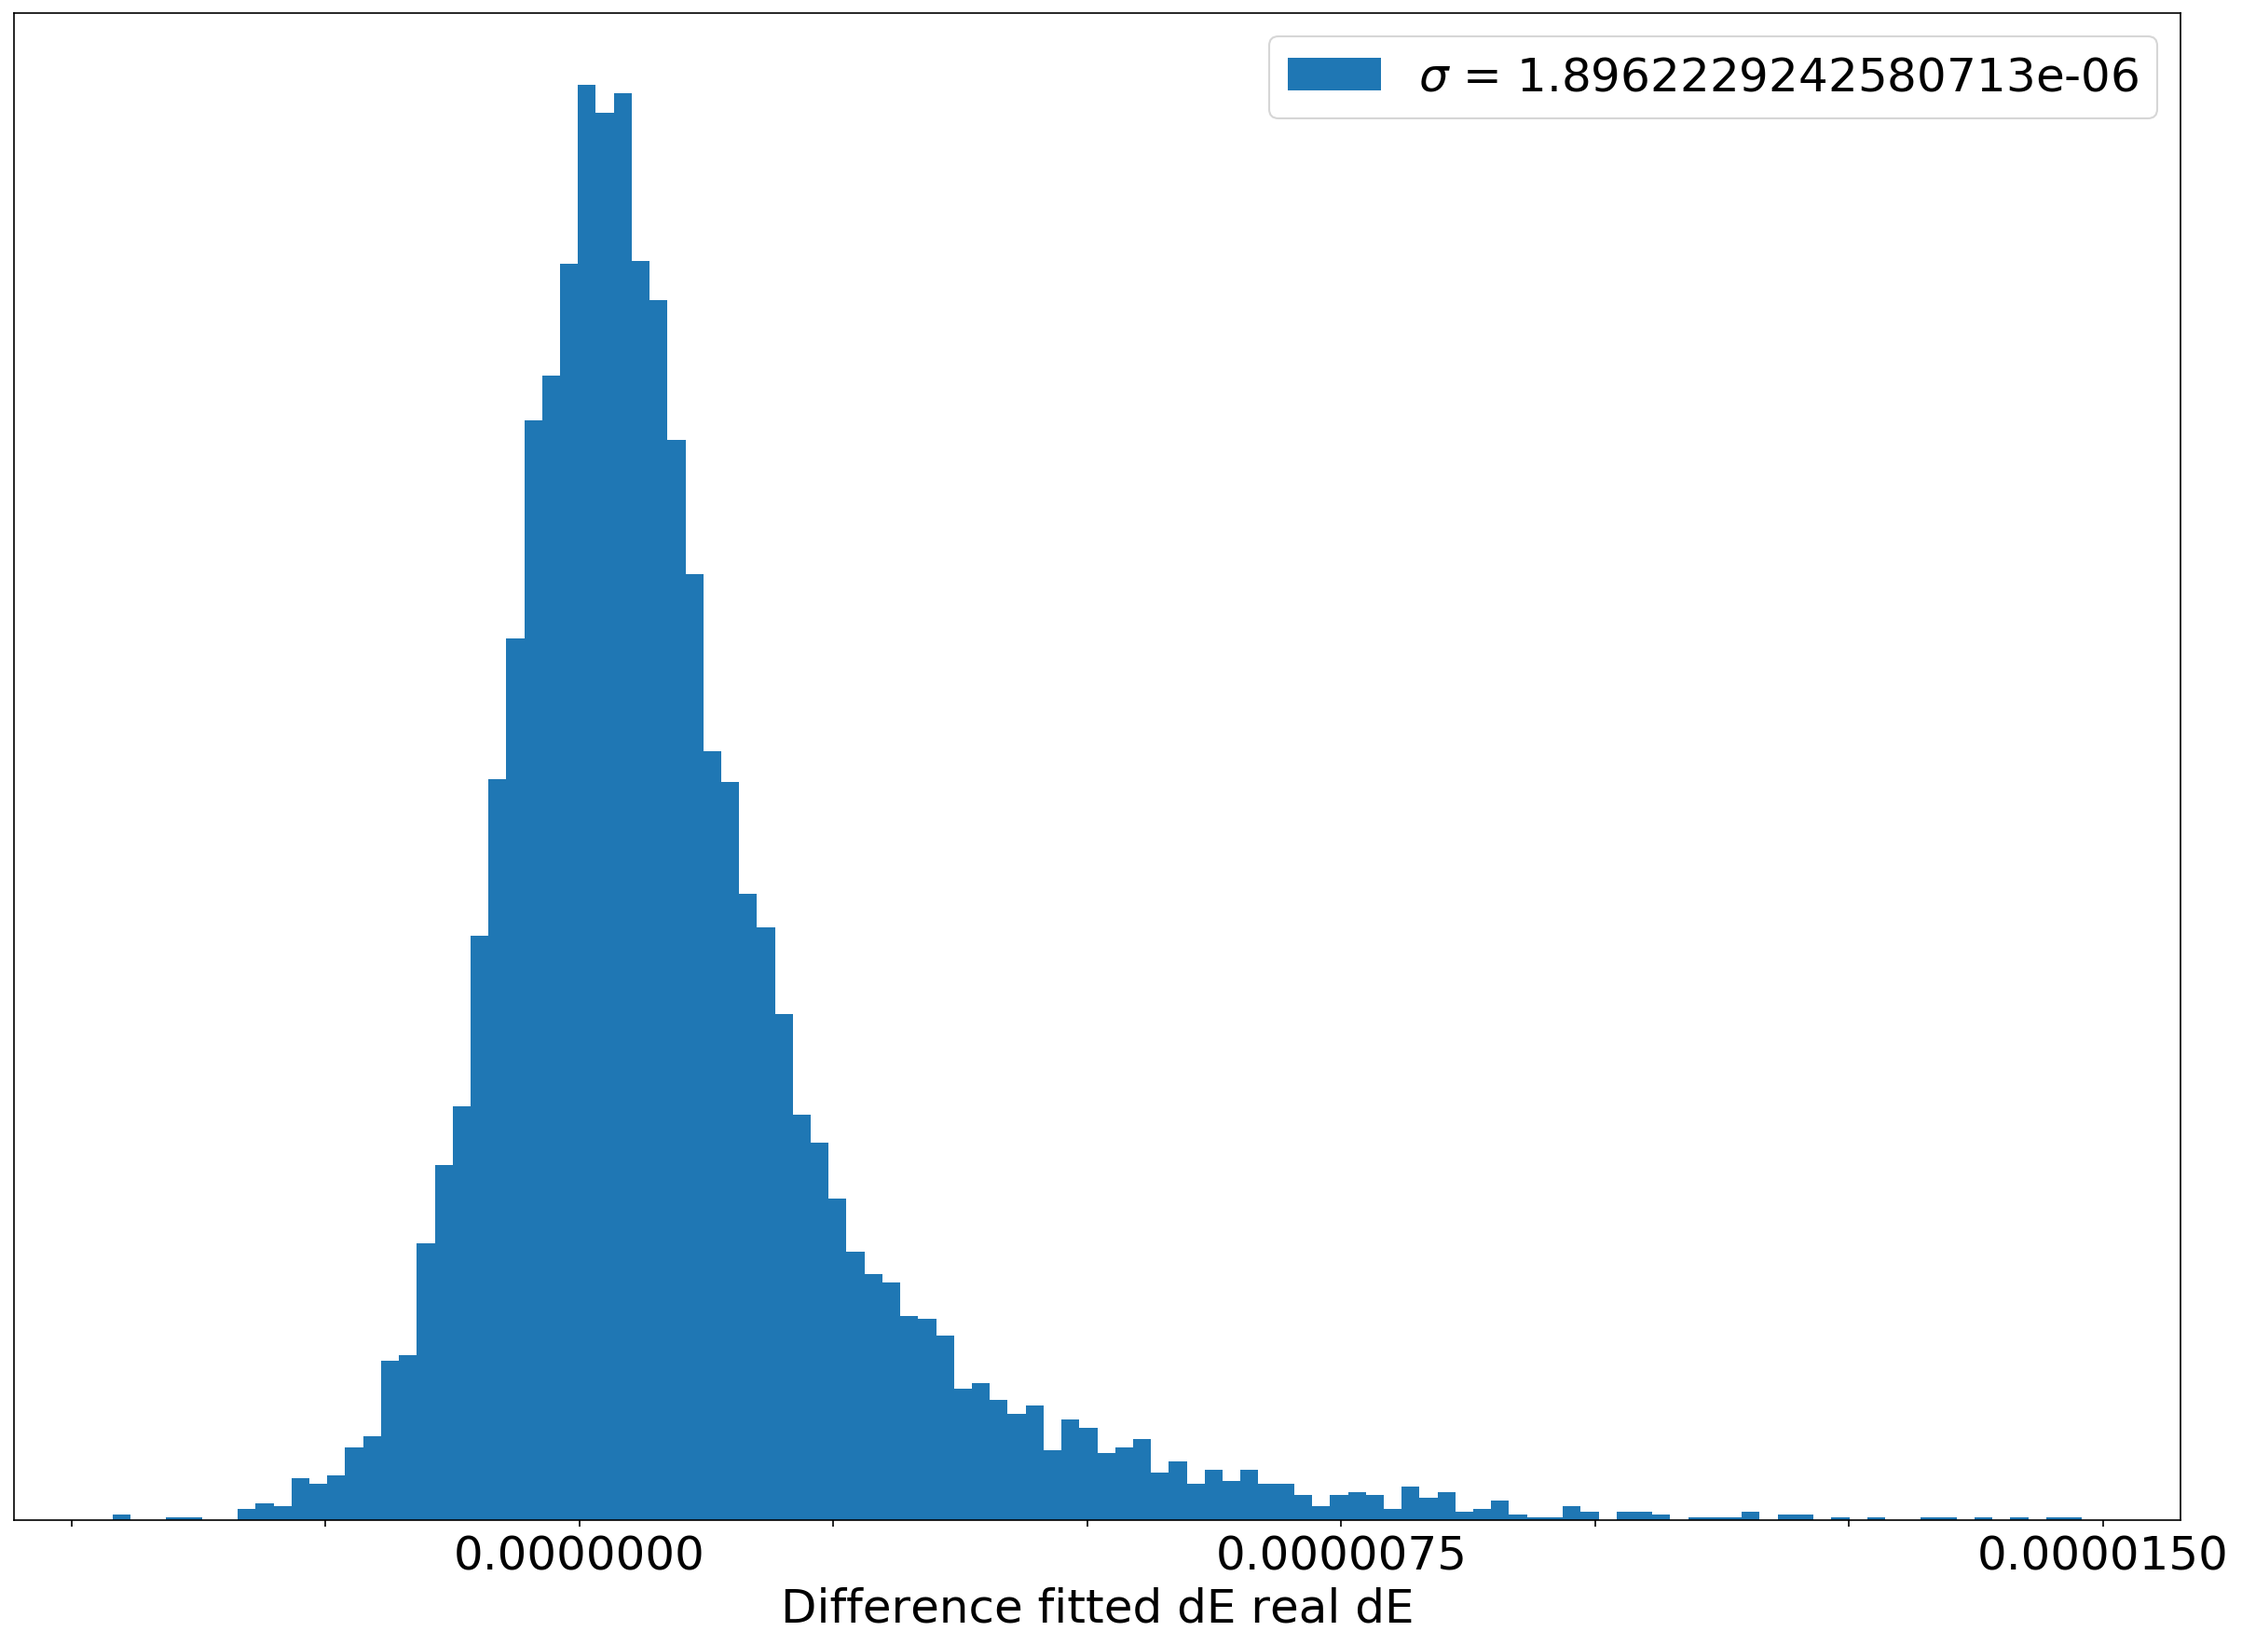
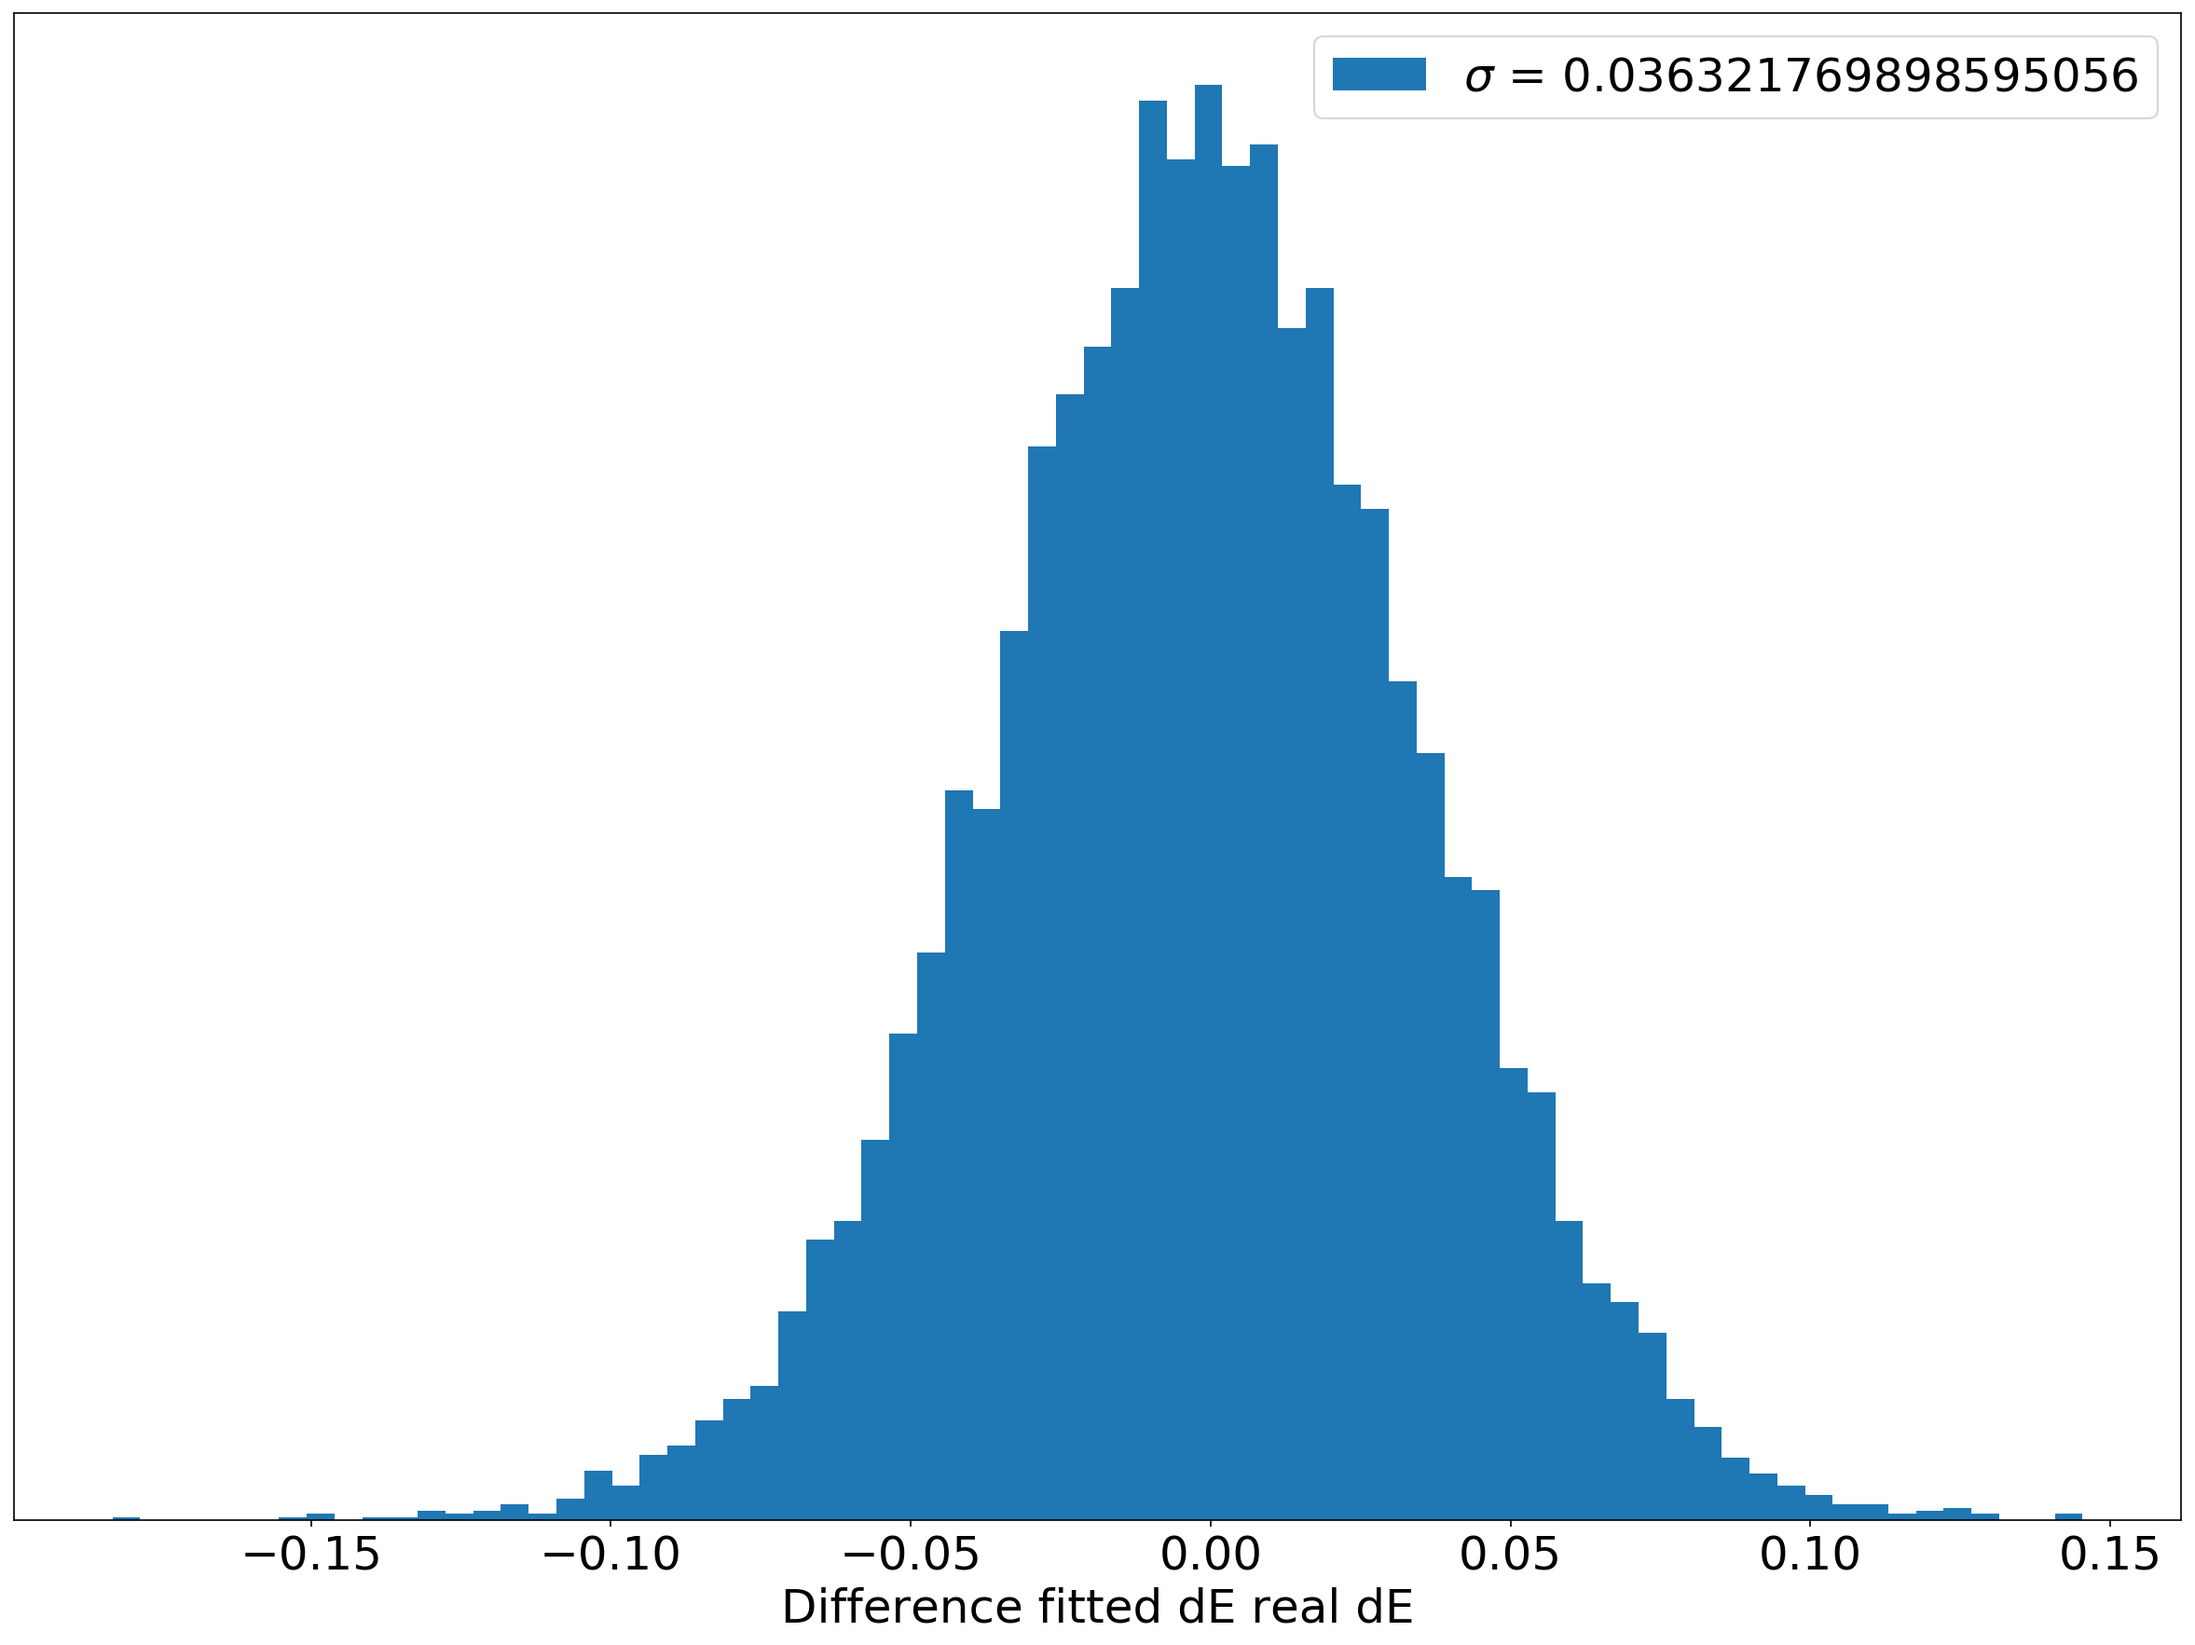
Update

Changed region(s): [[0.093, 0.0312, 1.0, 0.9972]]

diff --git a/mock_variation.py b/mock_variation.py
@@ -8,6 +8,7 @@ import numpy as np
 import matplotlib.pyplot as plt
 import h5py
 import json
+import sys
 import silence_tensorflow.auto
 import tensorflow as tf
 from scipy.optimize import minimize
@@ -55,8 +56,8 @@ def guess_dR(BR, B, B_inv):
     y = x[:] - b[None]
 
     # norm it to 1 and transform it to mag/color space
-    y /= np.dot(y,y)**0.5
     BdR = np.einsum('ij,j->i',B,y)
+    BdR /= np.dot(BdR,BdR)**0.5
 
     return BdR
 
@@ -142,8 +143,9 @@ def lagrangian(R2, l1, l2, rho, B_inv, R1, EEC, EmC, ECm, ECR, ERC, RCm, mCR, RC
     return lag
 
 
-def calculate_R(R, E, dR, dE, C, m, mC, Cm, l1, l2, rho, B_inv):
+def calculate_R(R, E, dR, dE, C, m, l1, l2, rho, B_inv):
     # calculate terms of chi_sq if R (reddening or variation) is the variables
+    mCm, mC, Cm = calculate_pre_loop(m,C)
     RC = dE[:,None]*np.einsum('i,nij->nj',dR,C)
     CR = dE[:,None]*np.einsum('nij,j->ni',C,dR)
     RCm = dE*np.einsum('i,ni->n',dR,Cm)
@@ -162,6 +164,11 @@ def calculate_R(R, E, dR, dE, C, m, mC, Cm, l1, l2, rho, B_inv):
 
     partial = (EEC, EmC, ECm, ECR, ERC, RCm, mCR, RCR)
     arg = (l1, l2, rho, B_inv, dR) + partial
+
+    co1 = lagrangian(R, 0, 0, [0,0], B_inv, dR, *partial) + mCm
+    co2 = np.sum(chi_sq(E, R, dE, dR, C, m))
+    if not np.allclose(co1,co2):
+        print("Values differ by ",co1-co2)
 
     # minimizing the augmented lagranian with respect to R and append the solution
     with np.errstate(divide='ignore', invalid='ignore'):
@@ -289,7 +296,7 @@ def prepare_data(d, nn):
 
 
 def probe_chi_E(E, R, dm, C, dR, dE, i, label):
-    probe = np.linspace(0.8,1.2,100)*E
+    probe = np.linspace(0.7,1.3,100)*E
     dm_c = np.full(probe.shape+dm.shape, dm)
     dE_c = np.full(probe.shape, dE)
     C_c = np.full(probe.shape+C.shape, C)
@@ -299,13 +306,41 @@ def probe_chi_E(E, R, dm, C, dR, dE, i, label):
     fig = plt.figure(figsize=(20,13), facecolor= 'white')
     ax = fig.subplots(1,1)
     ax.plot(probe, chi, color='black')
-    ax.axvline(E,-10,10)
+    ax.axvline(E,-10,100)
     ax.set_ylim([min(chi)-0.2*max(chi), 1.1*max(chi)])
     ax.set_xlabel(label)
     ax.set_ylabel('$\chi^2$')
 
     pic = label.replace(' ', '_')
     picp = 'pictures/' + pic + '_iteration_' + str(i)
+    plt.savefig(picp, dpi = 150, bbox_inches='tight')
+
+
+def probe_R(R, R_real, c, name):
+    plt.rcParams.update({'font.size':24})
+    fig = plt.figure(figsize=(20,13), facecolor= 'white')
+    ax = fig.subplots(1,1)
+    ax.plot(range(len(c)), c, color='black')
+    ax.axhline(1,-1,110)
+    ax.set_xlim(-1,110)
+    ax.set_ylabel('Iteration')
+    ax.set_xlabel('Dotproduct of fitted ' + name + ' and real ' + name)
+
+    pic = name.replace(' ', '_')
+    picp = 'pictures/' + pic + '_Dot'
+    plt.savefig(picp, dpi = 150, bbox_inches='tight')
+
+    plt.rcParams.update({'font.size':24})
+    fig = plt.figure(figsize=(20,13), facecolor= 'white')
+    ax = fig.subplots(1,1)
+    ax.plot(range(len(R)), R-R_real)
+    ax.axhline(0,-2,len(R)+2)
+    ax.set_xlim(-2,len(R)+2)
+    ax.set_ylabel('Difference of fitted ' + name + ' and real ' + name)
+    ax.set_xlabel('Iteration')
+
+    pic = name.replace(' ', '_')
+    picp = 'pictures/' + pic + '_Difference'
     plt.savefig(picp, dpi = 150, bbox_inches='tight')
 
 
@@ -319,10 +354,11 @@ def result_hist(x, iter, label, xlim = None):
     ax.legend()
     ax.tick_params(axis='y', which='both', left=False, right=False, labelleft=False)
     ax.set_xlabel(label)
+    """
     for n, l in enumerate(ax.xaxis.get_ticklabels()):
         if n % 3 != 0:
             l.set_visible(False)
-
+    """
     if xlim is not None:
         if hasattr(xlim,'__len__'):
             if len(xlim) == 2:
@@ -345,7 +381,17 @@ def main():
     mock = dir + 'mock_data.h5'
     model_path = dir + 'green2020_nn_model.h5'
     saving = dir + 'mock_result.h5'
-    test = 'dR'
+    tests = ['dE','E','dR','R','dEdR']
+    test = ''
+    sample = 900
+
+    if len(sys.argv) == 2:
+        if sys.argv[1] in tests:
+            test = sys.argv[1]
+        else:
+            print("Only arguments accepted are: ", tests)
+    else:
+        print("Only 1 of ", tests, " can be passed")
 
     #TODO Maybe lower rho as iterations go on?
     rho = [4e-1,4e-4,4e-1,4e-1]
@@ -354,9 +400,6 @@ def main():
     data, r_fit, R_mock, dr_mock, dR_mock = read_out(mock)
     nn_model = tf.keras.models.load_model(model_path)
     dm, C, BR_m, B, B_inv = prepare_data(data, nn_model)
-
-    # calculate the terms that only depend on the mag (which is constant through iterations)
-    mcm, mC, Cm = calculate_pre_loop(dm, C)
 
     # prepare the list that saved the values for each iteration (!!we fit for BR/BdR!!)
     BR = [BR_m]
@@ -369,35 +412,93 @@ def main():
     l1, l2, l3, l4 = [1], [1], [1], [1]
 
     if test == 'dE':
+        BdR.append(dR_mock)
+        BR.append(R_mock)
         dE_temp = calculate_E(BdR[-1], E[-1], BR[-1], C, dm)
         dE.append(dE_temp)
         diff = dE[-1] - dr_mock
         result_hist(diff, 0, 'Difference fitted dE real dE')
-        sample = 100
         la = 'Reddening Variation Star ' + str(sample)
         probe_chi_E(dE[-1][sample], BdR[-1], dm[sample], C[sample], BR[-1], E[-1][sample], 0, la)
 
         return 0
 
+    if test == 'E':
+        BdR.append(dR_mock)
+        BR.append(R_mock)
+        dE.append(dr_mock)
+        E_temp = calculate_E(BR[-1], dE[-1], BdR[-1], C, dm)
+        E.append(E_temp)
+        diff = E[-1] - r_fit
+        result_hist(diff, 0, 'Difference fitted E real E')
+        la = 'Reddening Star ' + str(sample)
+        probe_chi_E(E[-1][sample], BR[-1], dm[sample], C[sample], BdR[-1], dE[-1][sample], 0, la)
+
+        return 0
+
     if test == 'dR':
         dE.append(dr_mock)
+        BR.append(R_mock)
+        te = np.zeros((100,))
         for i in range(100):
-            BdR_temp = calculate_R(BdR[-1], dE[-1], BR[-1], E[-1], C, dm, mC, Cm, l1[-1], l2[-1], rho[:2], B_inv)
+            BdR_temp = calculate_R(BdR[-1], dE[-1], BR[-1], E[-1], C, dm, l1[-1], l2[-1], rho[:2], B_inv)
             BdR.append(BdR_temp)
             l_1 = l1[-1] + constraint_ortho(BdR[-1],BR[-1],rho[0],B_inv)
             l_2 = l2[-1] + constraint_unity(BdR[-1],rho[1])
             l1.append(l_1)
             l2.append(l_2)
-        print(BdR[-1]-dR_mock)
+            te[i] = np.dot(BdR[-1],dR_mock)
+        probe_R(BdR, dR_mock, te, 'dR')
 
         return 0
+
+    if test == 'R':
+        dE.append(dr_mock)
+        BdR.append(dR_mock)
+        te = np.zeros((100,))
+        for i in range(100):
+            BR_temp = calculate_R(BR[-1], E[-1], BdR[-1], dE[-1], C, dm, l3[-1], l4[-1], rho[2:], B_inv)
+            BR.append(BR_temp)
+            l_3 = l3[-1] + constraint_ortho(BR[-1], BdR[-1], rho[2], B_inv)
+            l_4 = l4[-1] + constraint_unity(BR[-1], rho[3])
+            l3.append(l_3)
+            l4.append(l_4)
+            te[i] = np.dot(BR[-1], R_mock)
+        probe_R(BR, R_mock, te, 'R')
+        print(BR[-1]-R_mock)
+        print(np.dot(R_mock, R_mock), np.dot(BR[-1],BR[-1]))
+
+        return 0
+
+    if test == 'dEdR':
+        BR.append(R_mock)
+        te = np.zeros((101,))
+        for i in range(101):
+            dE_temp = calculate_E(BdR[-1], E[-1], BR[-1], C, dm)
+            dE.append(dE_temp)
+            if i%20==0:
+                diff = dE[-1] - dr_mock
+                result_hist(diff, i, 'Difference fitted dE real dE')
+                la = 'Reddening Variation Star ' + str(sample)
+                probe_chi_E(dE[-1][sample], BdR[-1], dm[sample], C[sample], BR[-1], E[-1][sample], i, la)
+            BdR_temp = calculate_R(BdR[-1], dE[-1], BR[-1], E[-1], C, dm, l1[-1], l2[-1], rho[:2], B_inv)
+            BdR.append(BdR_temp)
+            l_1 = l1[-1] + constraint_ortho(BdR[-1],BR[-1],rho[0],B_inv)
+            l_2 = l2[-1] + constraint_unity(BdR[-1],rho[1])
+            l1.append(l_1)
+            l2.append(l_2)
+            te[i] = np.dot(BdR[-1],dR_mock)
+        probe_R(BdR, dR_mock, te, 'dR with dE')
+
+        return 0
+
 
     for i in range(convergence_limit):
         # calculate the root of chi_sq for dE
         dE_temp = calculate_E(BdR[-1], E[-1], BR[-1], C, dm)
         dE.append(dE_temp)
         # calculate the terms of chi_sq when fitting for dR, that are independant of dR
-        BdR_temp = calculate_R(BdR[-1], dE[-1], BR[-1], E[-1], C, dm, mC, Cm, l1[-1], l2[-1], rho[:2], B_inv)
+        BdR_temp = calculate_R(BdR[-1], dE[-1], BR[-1], E[-1], C, dm, l1[-1], l2[-1], rho[:2], B_inv)
         BdR.append(BdR_temp)
         # update lambda_1 and _2 according to the constraints and append
         l_1 = l1[-1] + constraint_ortho(BdR[-1],BR[-1],rho[0],B_inv)
@@ -408,11 +509,11 @@ def main():
         # calculate the root of chi_sq for E and append
         E_temp = calculate_E(BR[-1], dE[-1], BdR[-1], C, dm)
         E.append(E_temp)
-        BR_temp = calculate_R(BR[-1], E[-1], BdR[-1], dE[-1], C, dm, mC, Cm, l3[-1], l4[-1], rho[2:], B_inv)
+        BR_temp = calculate_R(BR[-1], E[-1], BdR[-1], dE[-1], C, dm, l3[-1], l4[-1], rho[2:], B_inv)
         BR.append(BR_temp)
         # update lambda_3 and _4 according to the constraints and append
         l_3 = l3[-1] + constraint_ortho(BdR[-1],BR[-1],rho[2],B_inv)
-        l_4 = l4[-1] + constraint_unity(BR[-1],rho[3])
+        l_4 = l4[-1] + constraint_unity(BR[-1], rho[3])
         l3.append(l_3)
         l4.append(l_4)
 

diff --git a/mock_data.py b/mock_data.py
@@ -20,7 +20,7 @@ def read_out(path):
     return d, r
 
 
-def save(path, d, r, R, dr, dR):
+def save(path, d, d0, r, R, dr, dR):
     # save the mock data set with the used R, E, dR, dE
     with h5py.File(path, 'w') as f:
         f.create_dataset('/data', data=d, chunks=True, compression='gzip', compression_opts=3)
@@ -28,6 +28,8 @@ def save(path, d, r, R, dr, dR):
         f.create_dataset('/R', data=R, chunks=True, compression='gzip', compression_opts=3)
         f.create_dataset('/dr_fit', data=dr, chunks=True, compression='gzip', compression_opts=3)
         f.create_dataset('/dR', data=dR, chunks=True, compression='gzip', compression_opts=3)
+        f.create_dataset('/data_no_noise', data=d0, chunks=True, compression='gzip', compression_opts=3)
+
 
 def guess_dR(R):
     # read out the mean wavelengths of the 13 filters
@@ -43,7 +45,9 @@ def guess_dR(R):
     # add a factor to scale the reddening vector so our initial guess is not the same
     y *= 0.4
     # norm it to 1
+    y[1:] -= y[0]
     y /= np.dot(y,y)**0.5
+    y[1:] += y[0]
 
     return y
 
@@ -135,7 +139,39 @@ def mock_m(d, r, nn, seed = 14, max = 0.1):
 
     d['mag_err'] = m_err
 
-    return R, dE, dR
+    return BR, dE, BdR
+
+
+def noise(d, seed = 14):
+    """
+
+    """
+    #
+    rng = np.random.default_rng(seed)
+
+    # create array where the noiseless values are saved
+    dtype = [
+        ('mag','13f4'),
+        ('atm_param_p','3f4'),
+        ('parallax','f4')
+    ]
+
+    d0 = np.empty(d.size, dtype=dtype)
+
+    for type, _ in dtype:
+        d0[type] = d[type]
+        norm = rng.normal(size=d[type].shape)
+        if type == 'atm_param_p':
+            for k in range(3):
+                d[type][:,k] += norm[:,k]*d['atm_param_cov_p'][:,k,k]
+        else:
+            err = type + '_err'
+            d[type] += norm*d[err]
+
+    check = (d['parallax'] < 0)
+    print(np.sum(check), ' parallaxes went negative')
+
+    return d0
 
 
 def main():
@@ -164,7 +200,8 @@ def main():
 
     # calculate R, dR and dE and replace mag and mag_err in the dataset
     R, dr, dR = mock_m(d, r, nn_model)
-    save(mock, d, r, R, dr, dR)
+    d0 = noise(d)
+    save(mock, d, d0, r, R, dr, dR)
 
     return 0
 
